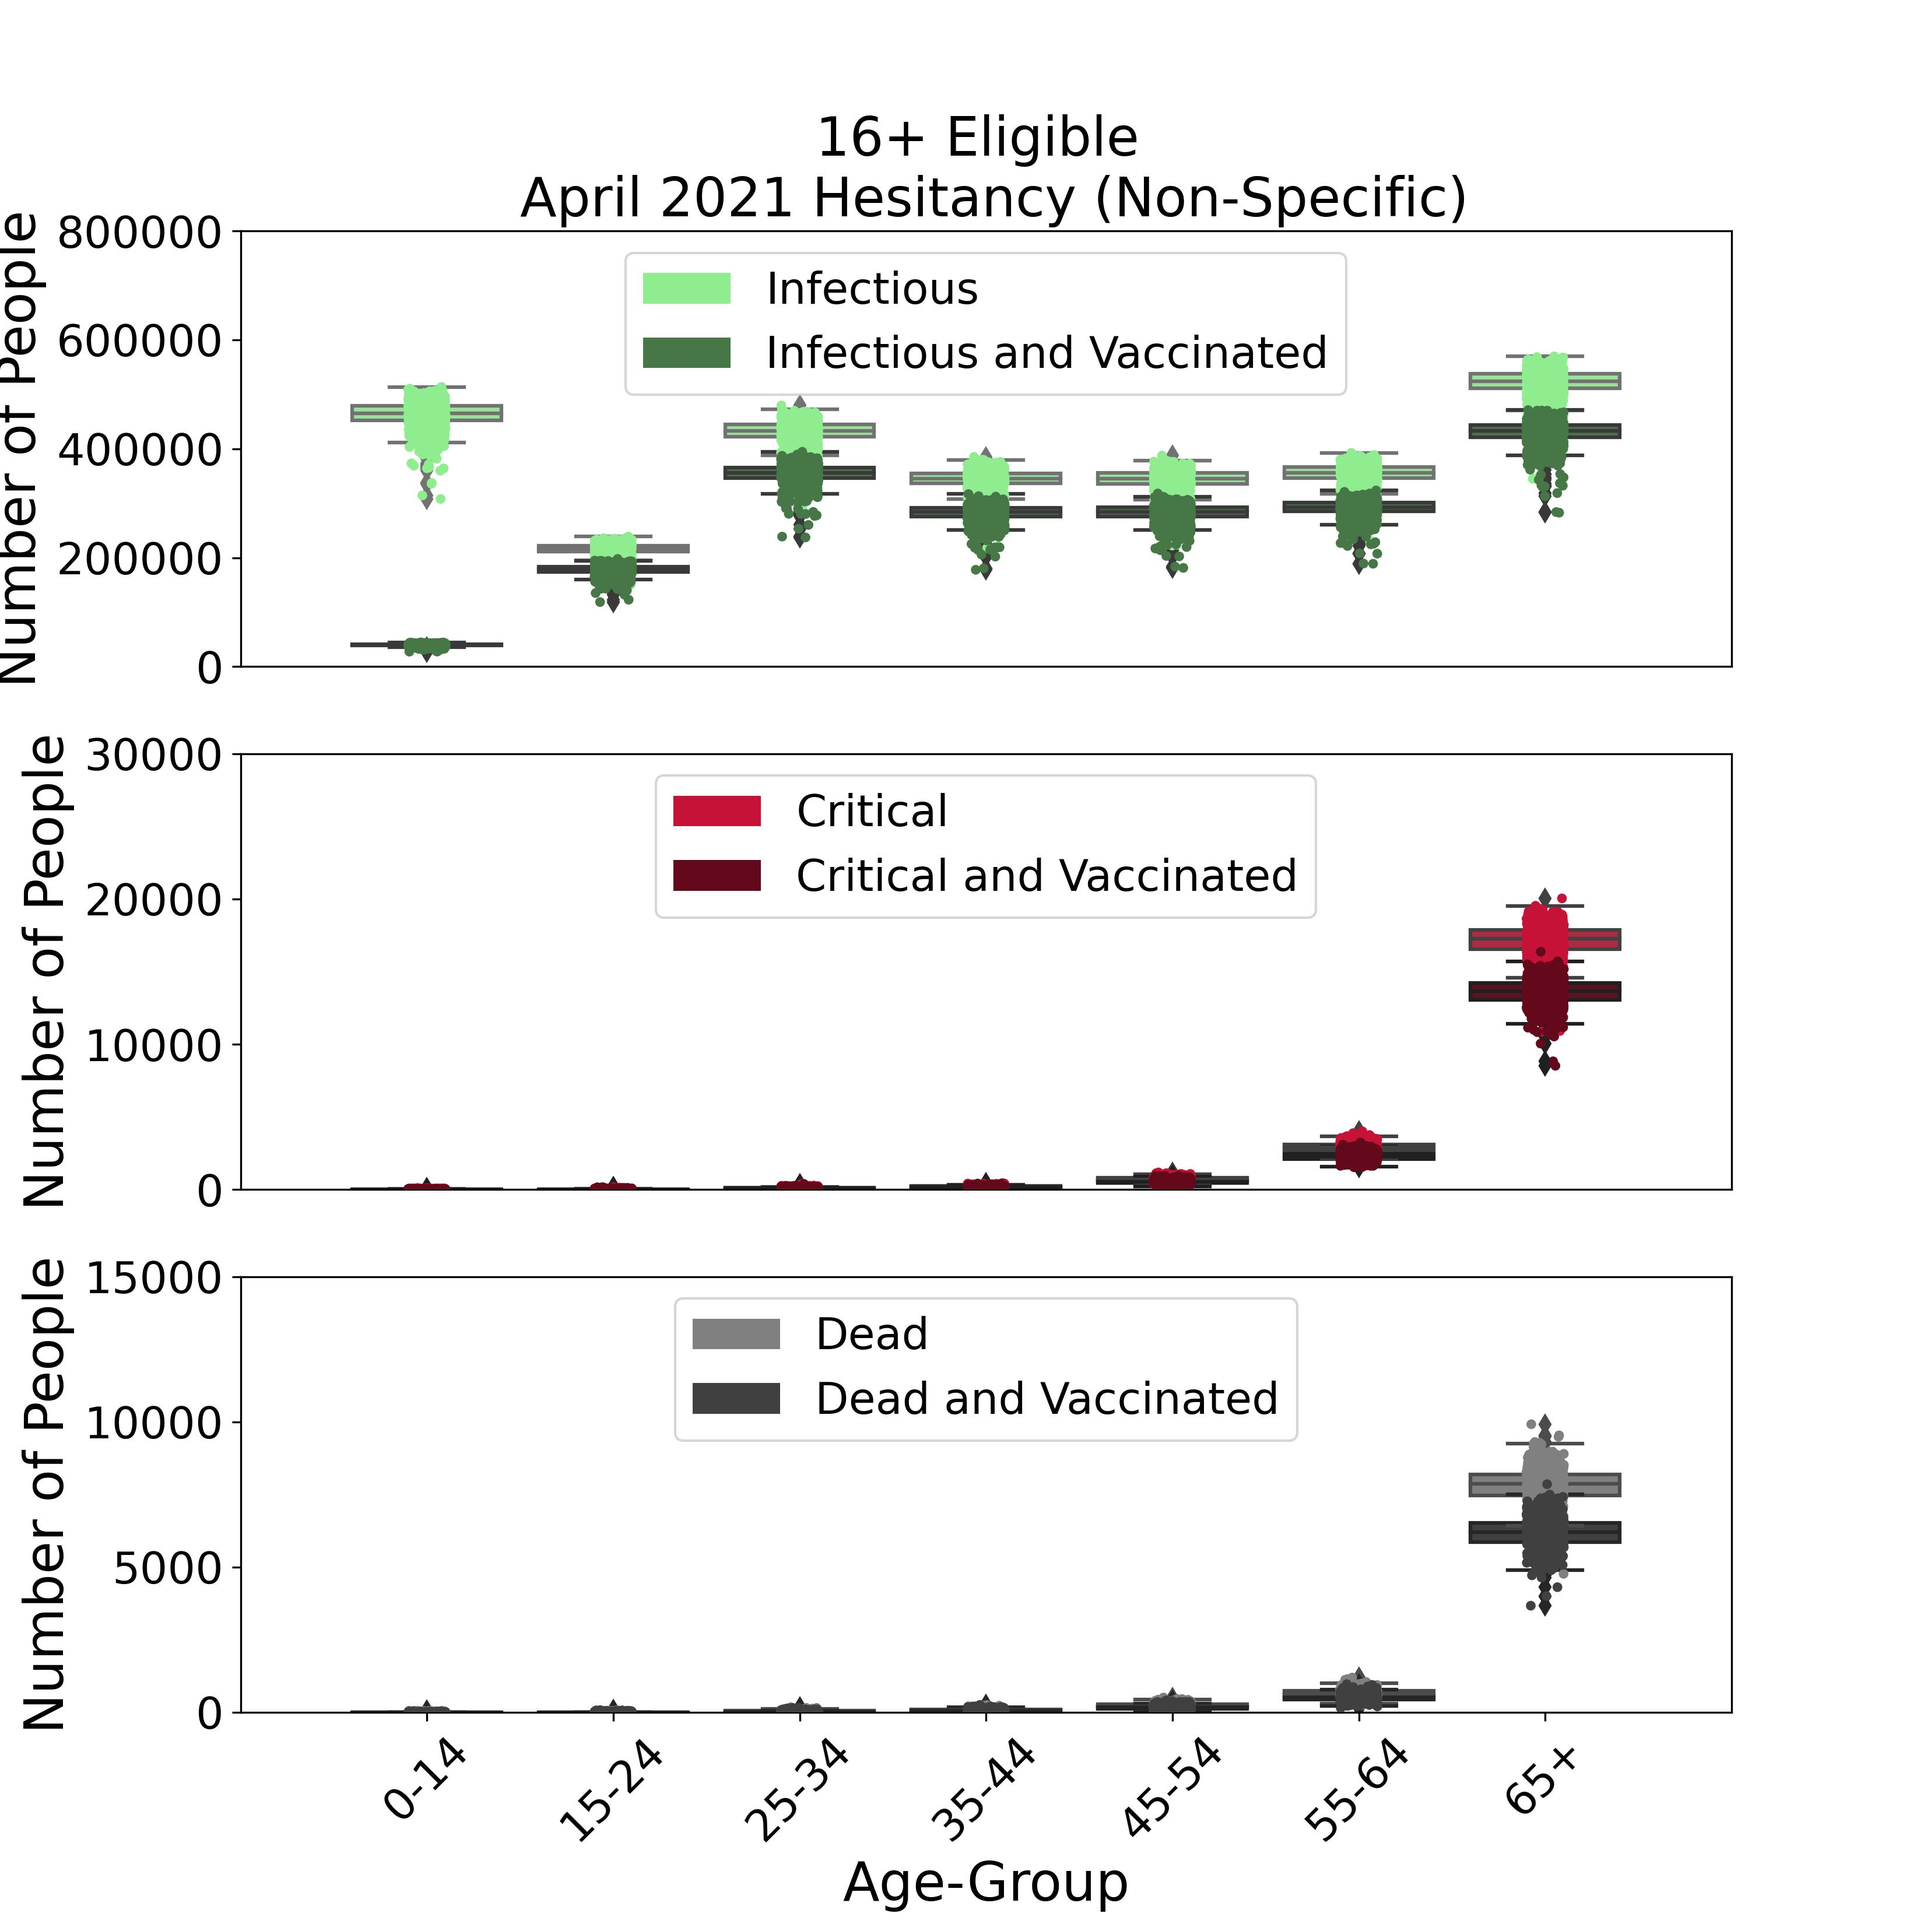
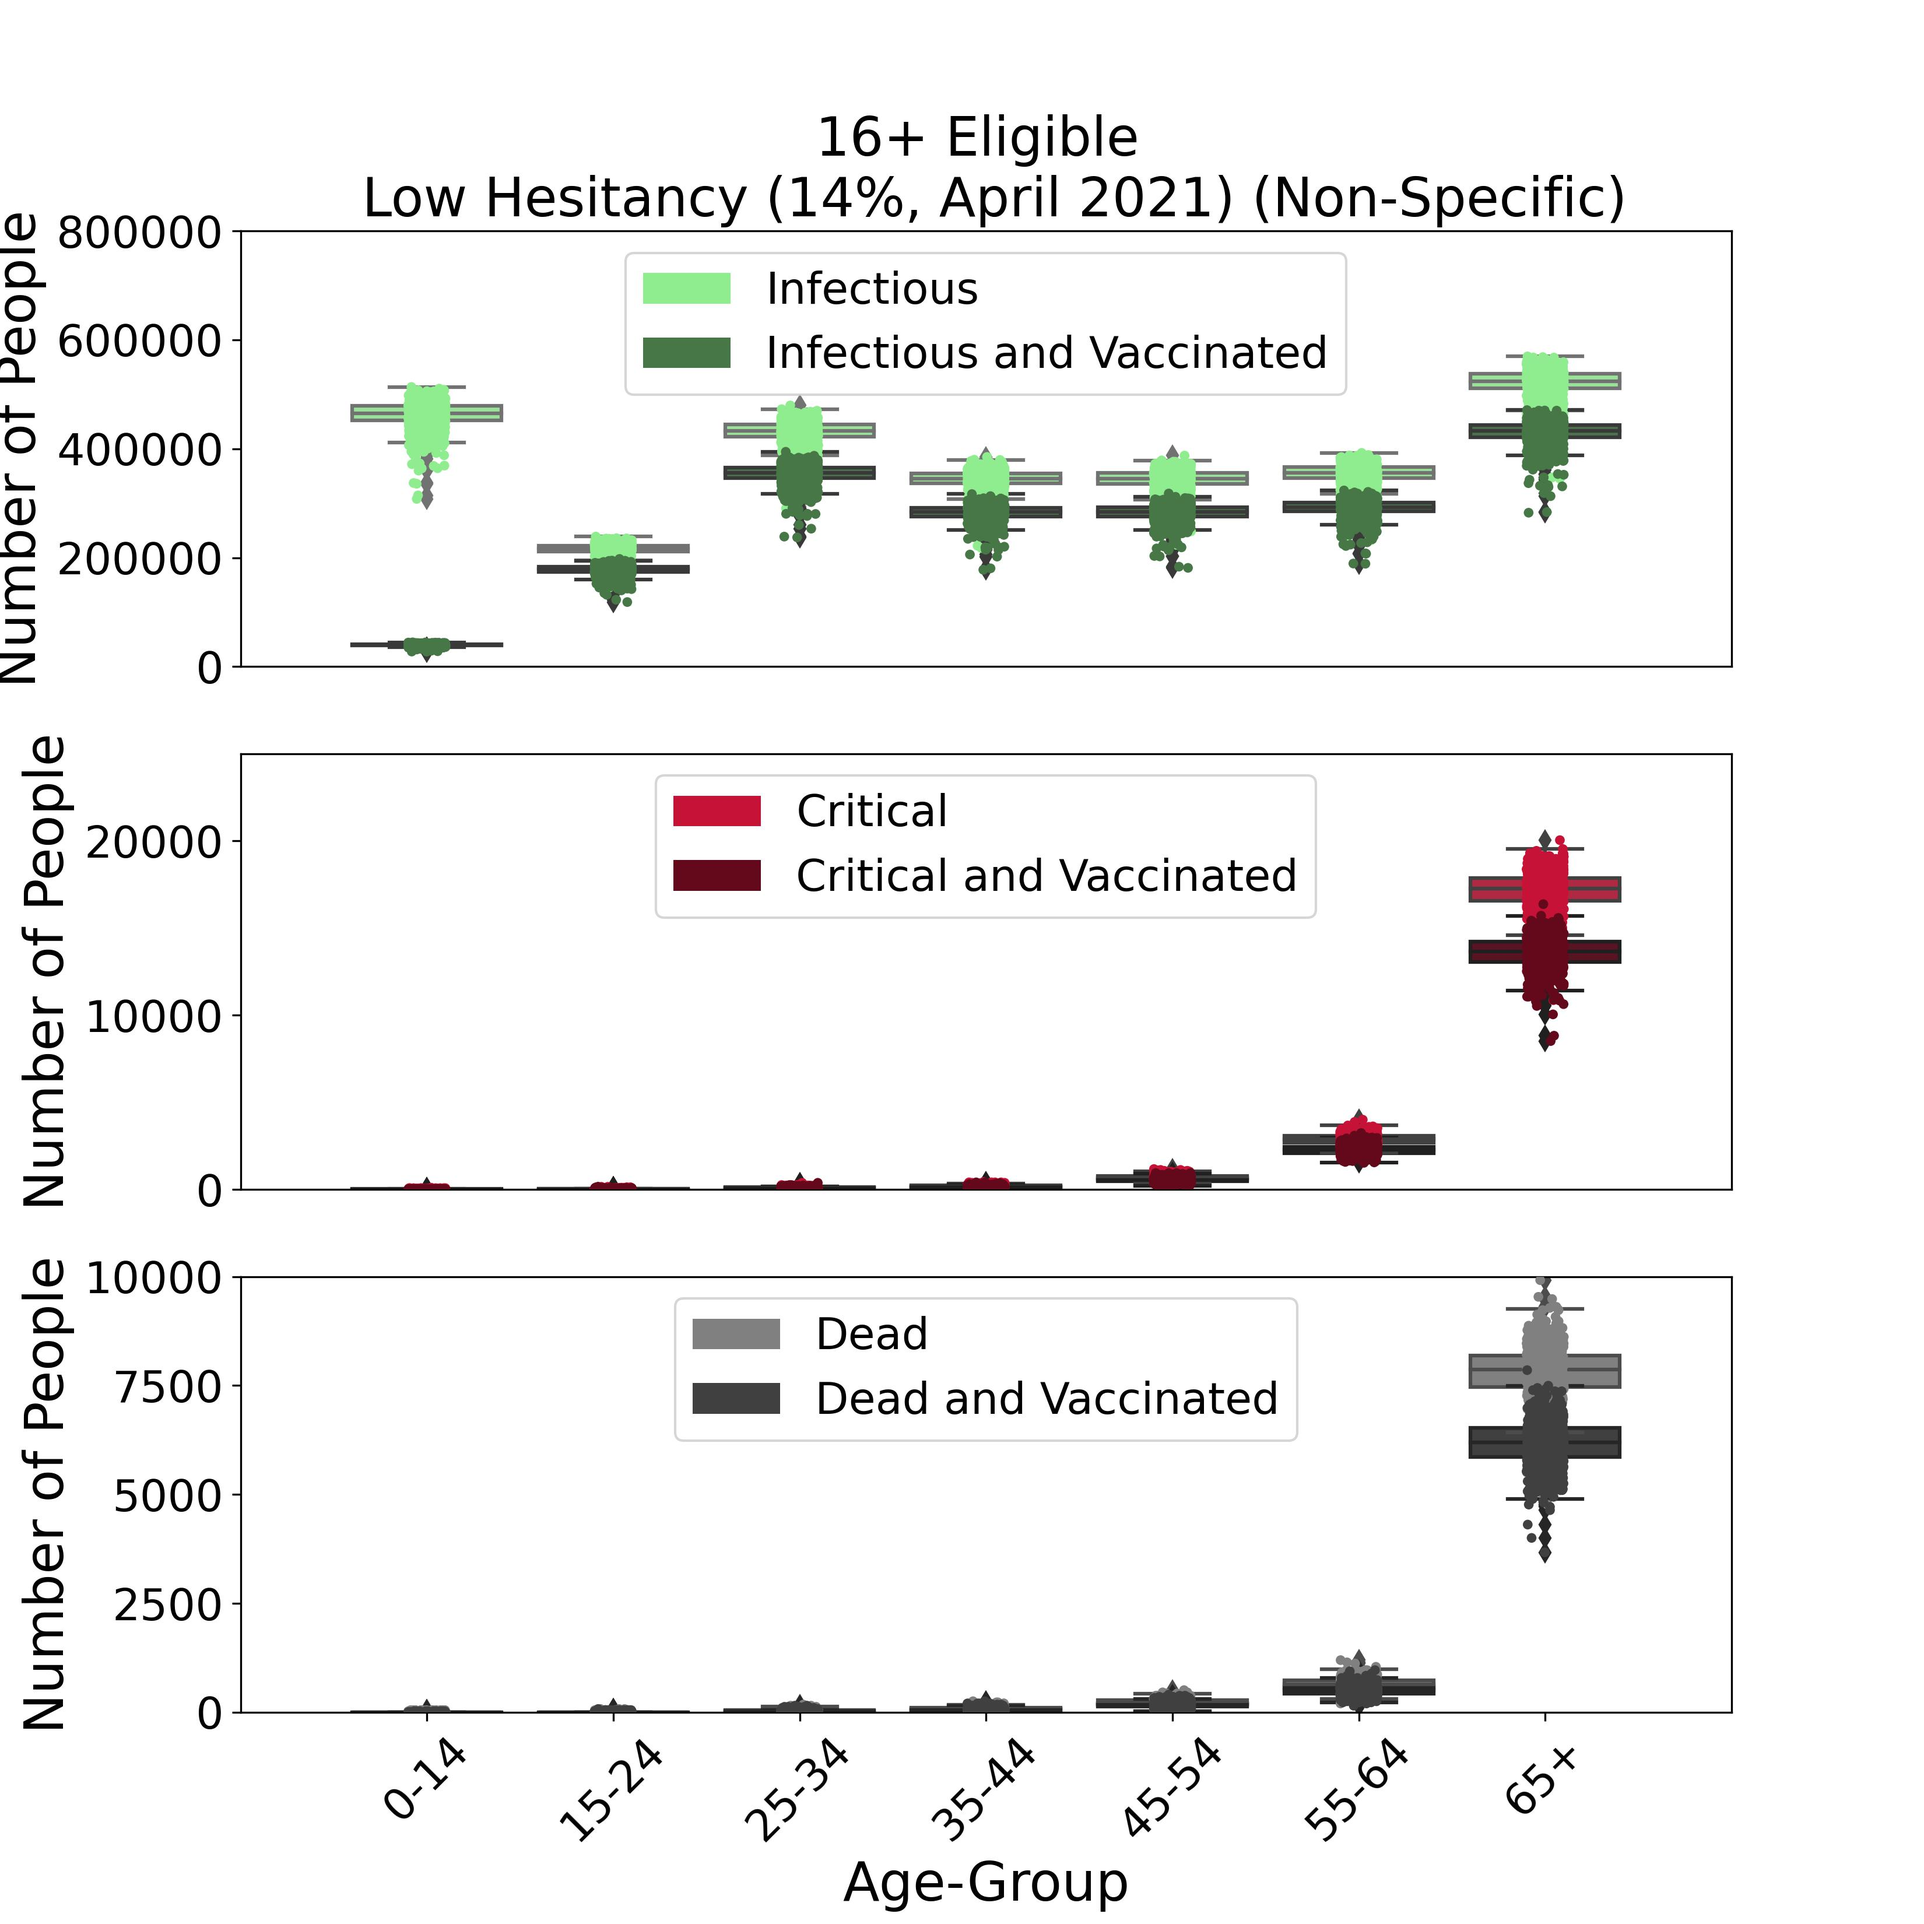
Updating figure bounds and titles

diff --git a/code/figures/AgeSpecifics_BoxPlots.py b/code/figures/AgeSpecifics_BoxPlots.py
@@ -16,10 +16,10 @@ popsize = 5.1e6 # QLD Population size
 # Name of different scenarios
 Sim_Names = [ "January2021","April2021","April_12_2021","LowHesitancy"]
 
-Fig_Titles = ["16+ Eligible \n January 2021 Hesitancy",
-              "16+ Eligible \n April 2021 Hesitancy",
-              "12+ Eligible \n April 2021 Hesitancy",
-              "12+ Eligible \n Low Hesitancy"]
+Fig_Titles = ["16+ Eligible \n High Hesitancy (20%, January 2021)",
+              "16+ Eligible \n Low Hesitancy (14%, April 2021)",
+              "12+ Eligible \n Low Hesitancy (14%, April 2021)",
+              "12+ Eligible \n Very Low Hesitancy (8%)"]
 
 #%% Boxplot code
 
@@ -117,14 +117,22 @@ for agespec in agespecs:
             # ax[0].set_ylim([0,Infectious_Data.max().max()*1.5]) 
             # ax[1].set_ylim([0,Critical_Data.max().max()*1.5]) 
             # ax[2].set_ylim([0,Dead_Data.max().max()*1.5]) 
-            if variant=='delta':                        
-                ax[0].set_ylim([0,125000]) 
-                ax[1].set_ylim([0,8000]) 
-                ax[2].set_ylim([0,4000]) 
+            if variant=='delta':        
+                
+                if ii < 2:
+                    ax[0].set_ylim([0,100000]) 
+                    ax[1].set_ylim([0,6000]) 
+                    ax[2].set_ylim([0,3000])    
+                else:
+                    ax[0].set_ylim([0,50000]) 
+                    ax[1].set_ylim([0,3000]) 
+                    ax[2].set_ylim([0,1500])   
+
+
             if variant=='omicron':                        
                 ax[0].set_ylim([0,800000]) 
-                ax[1].set_ylim([0,30000]) 
-                ax[2].set_ylim([0,15000]) 
+                ax[1].set_ylim([0,25000]) 
+                ax[2].set_ylim([0,10000]) 
 
             ax[2].set_xlabel('Age-Group') 
         
